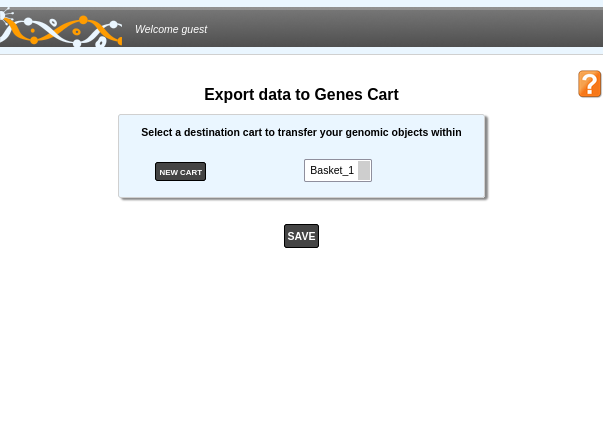
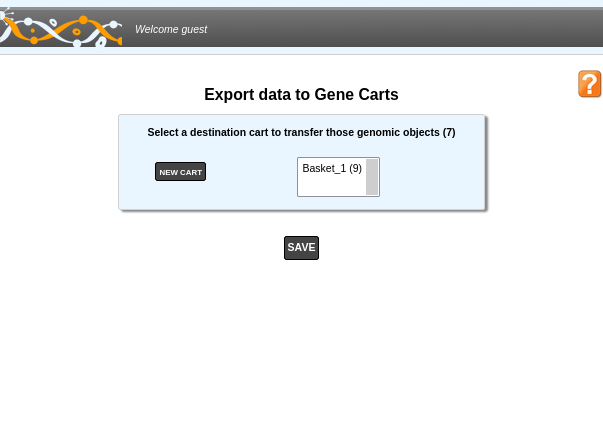
[#7539] Update text and screenshots.

Changed region(s): [[0.1791, 0.3562, 0.8358, 0.5936], [0.2388, 0.2671, 0.7761, 0.3265], [0.5672, 0.1781, 0.6567, 0.2374]]

diff --git a/docs/content/userpanel/genesbasket.rst b/docs/content/userpanel/genesbasket.rst
@@ -37,7 +37,7 @@ How to export the result of a tool to a gene cart?
 **************************************************
 
 Some tools allow the possibility to save Genomic Objects into a gene cart.
-Using the  **Export To Gene Cart** button that is above results tables as shown below, you will be able to save the corresponding Genomic Objects into a gene cart.
+Using the **Export To Gene Cart** button that is above result tables as shown below, you will be able to save the corresponding Genomic Objects into a new cart or into an existing cart.
 For instance, this is the case in the :ref:`keywords`, in the :ref:`rgpfinder` tool, in the :ref:`rnaseq_DiffExprAnalysis` tool or in the :ref:`viewer`.
 
 .. image:: img/export_gene_cart.png
@@ -50,13 +50,18 @@ To save the list:
 
 1. Click on the **Export To Gene Cart** button.
    This will open the 'Export Interface' in a new window.
+   The size of the gene cart is displayed next to its name.
+
+.. tip:: Gene carts are **sets**.
+   This means that if you try to add a genomic object to a cart that already contains it, it won't be added.
+   Therefore the size of the resulting cart might be smaller than the sum of the number of genomic objects to explore
+   and the current size of the cart.
 
 .. image:: img/genesbasketpopup.png
 
 2. Select your destination cart in the select menu or create a new one if necessary by clicking on the **NEW CART** button.
 3. Click on the **SAVE** button.
 
-If a genomic object is already present in the cart, it won't be added.
 If the size of the resulting gene cart is more than 300 000 genes, the window will display an error and the cart won't be saved as shown below.
 The window remains open so you can select another gene cart.
 
